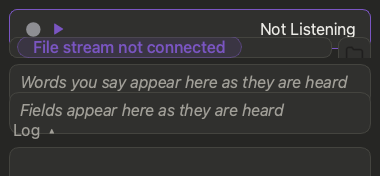
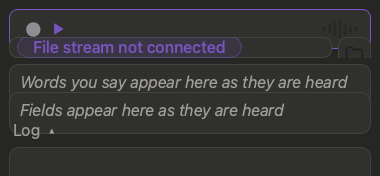
feat: animated sound lines on the Start button replace the Listening text

Changed region(s): [[0.6658, 0.1136, 0.9553, 0.2273]]

diff --git a/quill/ui/main_window.py b/quill/ui/main_window.py
@@ -64,6 +64,7 @@ from quill.ui.widgets import (
     ElidedLabel,
     HeadingToggle,
     Pill,
+    WaveMeter,
     connection_tip,
     tooltip_lines,
 )
@@ -221,7 +222,7 @@ class MainWindow:
         # One button is the whole control: the light, the state and the play / stop glyph. Pressing it
         # starts or stops listening; it fills with the accent colour while listening.
         self.dot = QLabel("●")
-        self.state_label = QLabel()
+        self.wave = WaveMeter()                       # the app icon's sound lines: still and muted, green and moving while listening
         self.countdown_label = QLabel()               # "Stops in 7s": the quiet timer counting down (hidden when not running)
         self.countdown_label.setProperty("countdown", True)
         self.countdown_label.setVisible(False)
@@ -234,7 +235,7 @@ class MainWindow:
         inner = QHBoxLayout(self.toggle_button)
         inner.setContentsMargins(16, 0, 14, 0)         # room before the light
         inner.setSpacing(8)
-        for part, stretch in ((self.dot, 0), (self.toggle_icon, 0), (self.countdown_label, 0), (None, 1), (self.state_label, 0)):
+        for part, stretch in ((self.dot, 0), (self.toggle_icon, 0), (self.countdown_label, 0), (None, 1), (self.wave, 0)):
             if part is None:
                 inner.addStretch(stretch)
                 continue
@@ -431,7 +432,7 @@ class MainWindow:
     def set_mini(self, mini: bool, notify: bool = False) -> None:
         """Switch between the full window and a small always-handy overlay.
 
-        The mini view keeps only a status row (light, state text, the Needs-sorting
+        The mini view keeps only a status row (light, sound lines, the Needs-sorting
         count, Start / Stop and a way back) and the row being built; the log, the
         saved-row line, the workbook details, Undo and Settings are hidden. It floats
         above other windows (unless turned off) so it can sit over a spreadsheet.
@@ -687,7 +688,6 @@ class MainWindow:
         if self._window is None:
             return
         full = not self._view_mini
-        self.state_label.setVisible(True)                                   # "Listening" / "Not Listening" shows in both views
         self._render_countdown()
         self.connection_chip.setVisible(full and self._not_connected)       # inside the workbook picker ...
         self.mini_chip.setVisible(self._view_mini and self._not_connected)  # ... or alone in the mini view
@@ -1100,7 +1100,7 @@ class MainWindow:
         """Update the active light, label and button."""
         self._listening = active
         self.dot.setStyleSheet(f"color: {COLOR_ACTIVE if active else COLOR_IDLE}; font-size: 18px;")
-        self.state_label.setText("Listening" if active else "Not Listening")
+        self.wave.set_active(active)
         self.toggle_button.setToolTip("Stop Listening" if active else "Start Listening")
         self.toggle_button.setAccessibleName("Stop Listening" if active else "Start Listening")
         self.toggle_button.setProperty("accent", active)          # filled with the accent while listening,
@@ -1135,7 +1135,6 @@ class MainWindow:
         if self._window is None:
             return
         color = self._on_accent if self._listening else self._accent
-        self.state_label.setStyleSheet(f"color: {self._on_accent};" if self._listening else "")   # the fill is the accent
         self.toggle_icon.setPixmap(make_icon("stop" if self._listening else "play", color, 16).pixmap(16, 16))
 
     def refresh_icons(self, text_color: str = "#1F1E1D", on_accent: str = "#FFFFFF",
@@ -1155,6 +1154,9 @@ class MainWindow:
         self.help_button.setIcon(make_icon("question", text_color, 18))
         self.settings_button.setIcon(make_icon("settings", text_color, 18))
         self.open_file_button.setIcon(make_icon("folder", text_color, 18))
+        muted = QColor(text_color)
+        muted.setAlpha(110)
+        self.wave.set_colors(muted.name(QColor.NameFormat.HexArgb), COLOR_ACTIVE)
         self._draw_toggle_icon()
 
     def set_undo_count(self, count: int) -> None:

diff --git a/quill/ui/widgets.py b/quill/ui/widgets.py
@@ -2,9 +2,11 @@
 
 from __future__ import annotations
 
-from PySide6.QtCore import QEvent, QRectF, Qt, Signal
+import math
+
+from PySide6.QtCore import QEvent, QRectF, QSize, Qt, QTimer, Signal
 from PySide6.QtGui import QColor, QFontMetrics, QPainter
-from PySide6.QtWidgets import QLabel, QSizePolicy
+from PySide6.QtWidgets import QLabel, QSizePolicy, QWidget
 
 #: Lines of the full text shown in a tooltip before "…and n more".
 TOOLTIP_LINES = 40
@@ -49,6 +51,75 @@ def tooltip_lines(items: list[tuple[str, str]], limit: int = TOOLTIP_LINES) -> s
     if len(items) > limit:
         lines.append(f"…and {len(items) - limit} more")
     return "\n".join(lines)
+
+
+class WaveMeter(QWidget):
+    """The sound lines of the app icon: still and muted while idle, green and moving while listening.
+
+    The animation is a loop (each line rises and falls a little after its neighbour) driven by a timer that
+    only runs while the widget is :meth:`set_active`.
+    """
+
+    HEIGHTS = (8, 16, 24, 34, 22, 14, 8)         # the app icon's lines (relative heights)
+    FRAME_MS = 40
+    SPEED = 0.16                                 # radians per frame
+
+    def __init__(self) -> None:
+        super().__init__()
+        self._active = False
+        self._phase = 0.0
+        self._idle, self._live = QColor("#8e8e93"), QColor("#34c759")
+        self._timer = QTimer(self)
+        self._timer.setInterval(self.FRAME_MS)
+        self._timer.timeout.connect(self._tick)
+        self.setAttribute(Qt.WidgetAttribute.WA_TransparentForMouseEvents)
+        self.setFixedSize(QSize(34, 22))
+
+    @property
+    def active(self) -> bool:
+        return self._active
+
+    def set_colors(self, idle: str, live: str) -> None:
+        """*idle* is the muted still colour, *live* the colour while listening."""
+        self._idle, self._live = QColor(idle), QColor(live)
+        self.update()
+
+    def set_active(self, active: bool) -> None:
+        """Start (green, moving) or stop (muted, still)."""
+        self._active = active
+        self._phase = 0.0
+        if active:
+            self._timer.start()
+        else:
+            self._timer.stop()
+        self.update()
+
+    def _tick(self) -> None:
+        self._phase = (self._phase + self.SPEED) % (2 * math.pi)
+        self.update()
+
+    def bar_heights(self) -> list[float]:
+        """Each line's height as a share of the widget's (1 = full)."""
+        top = max(self.HEIGHTS)
+        shares = []
+        for i, h in enumerate(self.HEIGHTS):
+            base = h / top
+            if self._active:
+                base *= 0.55 + 0.45 * (0.5 + 0.5 * math.sin(self._phase - i * 0.8))
+            shares.append(max(base, 0.16))
+        return shares
+
+    def paintEvent(self, event) -> None:                             # noqa: N802 (Qt name)
+        painter = QPainter(self)
+        painter.setRenderHint(QPainter.RenderHint.Antialiasing)
+        painter.setPen(Qt.PenStyle.NoPen)
+        painter.setBrush(self._live if self._active else self._idle)
+        count, width = len(self.HEIGHTS), 3.0
+        step = (self.width() - width) / (count - 1)
+        for i, share in enumerate(self.bar_heights()):
+            h = share * (self.height() - 2)
+            painter.drawRoundedRect(QRectF(i * step, (self.height() - h) / 2, width, h), width / 2, width / 2)
+        painter.end()
 
 
 class Pill(QLabel):

diff --git a/tests/test_mini_view.py b/tests/test_mini_view.py
@@ -59,7 +59,7 @@ class TestMiniWindow(unittest.TestCase):
     def test_the_mini_view_keeps_the_buttons_and_the_way_back(self):
         self.w.set_mini(True)
         _app.processEvents()
-        for name in ("dot", "state_label", "toggle_button", "sorting_button", "mini_button"):
+        for name in ("dot", "wave", "toggle_button", "sorting_button", "mini_button"):
             self.assertTrue(shown(self.w, name), name)
 
     def test_the_default_mini_size_has_no_stream_or_row_but_a_taller_one_does(self):
@@ -106,13 +106,13 @@ class TestMiniWindow(unittest.TestCase):
         _app.processEvents()
         self.assertEqual((self.w.widget.width(), self.w.widget.height()), (390, 310))
 
-    def test_the_state_text_is_still_there_in_the_mini_view(self):
+    def test_the_wave_is_still_there_in_the_mini_view(self):
         self.w.set_mini(True)
         _app.processEvents()
-        self.assertEqual(self.w.state_label.text(), "Not Listening")
+        self.assertFalse(self.w.wave.active)
         self.w.set_listening_indicator(True)
-        self.assertEqual(self.w.state_label.text(), "Listening")
-        self.assertTrue(shown(self.w, "state_label"))
+        self.assertTrue(self.w.wave.active)
+        self.assertTrue(shown(self.w, "wave"))
 
     def test_the_buttons_shrink_to_icons(self):
         self.w.set_mini(True)
@@ -135,7 +135,7 @@ class TestMiniWindow(unittest.TestCase):
         self.w.set_mini(False)
         _app.processEvents()
         self.assertEqual(self.w.widget.size(), full)
-        self.assertEqual(self.w.state_label.text(), "Not Listening")
+        self.assertFalse(self.w.wave.active)
 
     def test_the_needs_sorting_count_moves_into_the_status_row(self):
         row = self.w._status_row

diff --git a/tests/test_window_batch.py b/tests/test_window_batch.py
@@ -60,13 +60,26 @@ class TestStartButton(unittest.TestCase):
     def test_the_play_icon_follows_the_theme_colour(self):
         self.assertEqual(self.icon_colour(), "#7A55C2")
 
-    def test_the_word_listening_is_white_on_the_filled_button_in_any_theme(self):
-        self.w.refresh_icons("#222222", "#FFFFFF", "#7A55C2")
+    def test_the_wave_is_muted_and_still_until_listening_then_green_and_moving(self):
+        from quill.ui.main_window import COLOR_ACTIVE
+        wave = self.w.wave
+        self.assertFalse(wave.active)
+        self.assertFalse(wave._timer.isActive())
+        idle = wave.bar_heights()
         self.w.set_listening_indicator(True)
-        self.assertIn("#FFFFFF", self.w.state_label.styleSheet().upper())
+        self.assertTrue(wave.active and wave._timer.isActive())
+        self.assertEqual(wave._live.name().lower(), COLOR_ACTIVE)
+        wave._tick()
+        self.assertNotEqual(idle, wave.bar_heights())               # it moves
         self.w.set_listening_indicator(False)
-        self.assertEqual(self.w.state_label.styleSheet(), "")
+        self.assertFalse(wave._timer.isActive())
+        self.assertEqual(idle, wave.bar_heights())                  # and is back to rest
+        self.assertLess(wave._idle.alpha(), 255)                    # muted
 
+    def test_there_is_no_listening_text_any_more(self):
+        self.assertFalse(hasattr(self.w, "state_label"))
+        self.w.set_listening_indicator(True)
+        self.assertEqual(self.w.toggle_button.toolTip(), "Stop Listening")
 
 class TestRowTable(unittest.TestCase):
     def test_no_line_under_the_last_row(self):

diff --git a/tests/test_ui.py b/tests/test_ui.py
@@ -32,15 +32,14 @@ class TestMainWindow(unittest.TestCase):
         self.w.setup()
 
     def test_starts_not_listening(self):
-        self.assertEqual(self.w.state_label.text(), "Not Listening")
+        self.assertFalse(self.w.wave.active)
         self.assertEqual(self.w.toggle_button.toolTip(), "Start Listening")
         self.assertFalse(self.w.toggle_button.property("accent"))
         self.assertIn(COLOR_IDLE, self.w.dot.styleSheet())
 
     def test_listening_indicator(self):
         self.w.set_listening_indicator(True)
-        self.assertEqual((self.w.state_label.text(), self.w.toggle_button.toolTip()),
-                         ("Listening", "Stop Listening"))
+        self.assertEqual((self.w.wave.active, self.w.toggle_button.toolTip()), (True, "Stop Listening"))
         self.assertTrue(self.w.toggle_button.property("accent"))
         self.assertIn(COLOR_ACTIVE, self.w.dot.styleSheet())
         self.assertTrue(self.w.listening)

diff --git a/tests/test_badges_icons_opacity.py b/tests/test_badges_icons_opacity.py
@@ -51,7 +51,7 @@ class TestIcons(unittest.TestCase):
         start = w.toggle_icon.pixmap().toImage()
         w.set_listening_indicator(True)
         stop = w.toggle_icon.pixmap().toImage()
-        self.assertEqual(w.state_label.text(), "Listening")
+        self.assertTrue(w.wave.active)
         self.assertNotEqual(start, stop)
 
     def test_icons_take_the_theme_colours(self):

diff --git a/README.md b/README.md
@@ -179,7 +179,7 @@ A custom theme (`quill/ui/theme.py`): Qt's cross-platform Fusion style plus a pa
 
 - **Menu bar / tray badge.** While terms wait, the icon carries a round badge with the count ("9+" past nine) in the **accent colour**, like the unread count on other menu bar apps. The tray menu also gets a **Needs sorting (n)…** line that opens the list. Both vanish at zero.
 - **Needs sorting button.** Filled with the accent colour (like Start/Stop) while terms wait, with the count as an inline **pill** in the sentence: `Needs sorting (3)`. The pill is painted by hand (`ui/widgets.Pill`) because a style-sheet radius was square on macOS.
-- **Start / Stop is one button** (`toggle_button`): the light, `Listening` / `Not Listening` and a play or stop glyph live inside it, and it fills with the accent colour while listening. The file row's **Open File** is an icon-only folder button the height of the picker.
+- **Start / Stop is one button** (`toggle_button`): the light, a play or stop glyph and the sound lines (`WaveMeter`: grey and still when idle, green and moving while listening, in place of the old Listening / Not Listening text) live inside it, and it fills with the accent colour while listening. The file row's **Open File** is an icon-only folder button the height of the picker.
 - **Icons.** Settings is an icon-only (sliders) button with a tooltip and accessible name. The icons are SVG redrawn in the theme's colours (`ui/icons.py`).
 - **Last saved** is a smaller italic supporting note (2 pt under the text size, muted colour).
 - **Window opacity** (Settings, 55 to 100 %, default 100) fades the *whole* window (`setWindowOpacity`): text, inputs, buttons, selection boxes and text areas all follow it together.

diff --git a/quill/help/03-talking.md b/quill/help/03-talking.md
@@ -11,7 +11,7 @@ Speak naturally. Quill picks out the words it knows.
 | **"Next row"** | saves the row, starts a new one. Ending with just **"next"**, **"next item"** or **"stop"** does the same |
 | **"Stop listening"** | stops |
 
-> 💡 Prefer buttons? Press the wide **Start / Stop** button, or use the menu bar icon.
+> 💡 Prefer buttons? Press the wide **Start / Stop** button, or use the menu bar icon. Its sound lines are grey and still when Quill is not listening, and turn green and move while it is.
 
 ## ✍ Describing an item
 

diff --git a/quill/help/08-troubleshooting.md b/quill/help/08-troubleshooting.md
@@ -2,7 +2,7 @@
 
 ## 🚦 Quick checks
 
-1. Is the button showing **Listening**?
+1. Is the button filled and are its sound lines green and moving? (Still and grey means Quill is not listening.)
 2. Is a spreadsheet open? (no orange *File stream not connected*)
 3. Is Quill allowed to use the **microphone**?
 4. Is your volume up?
